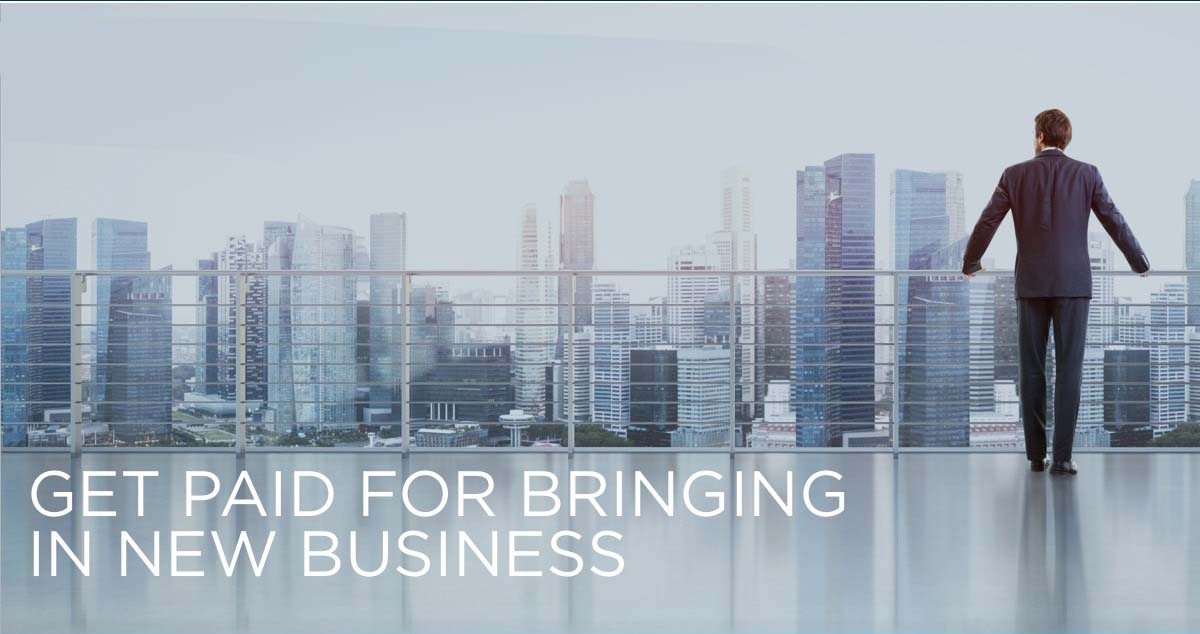
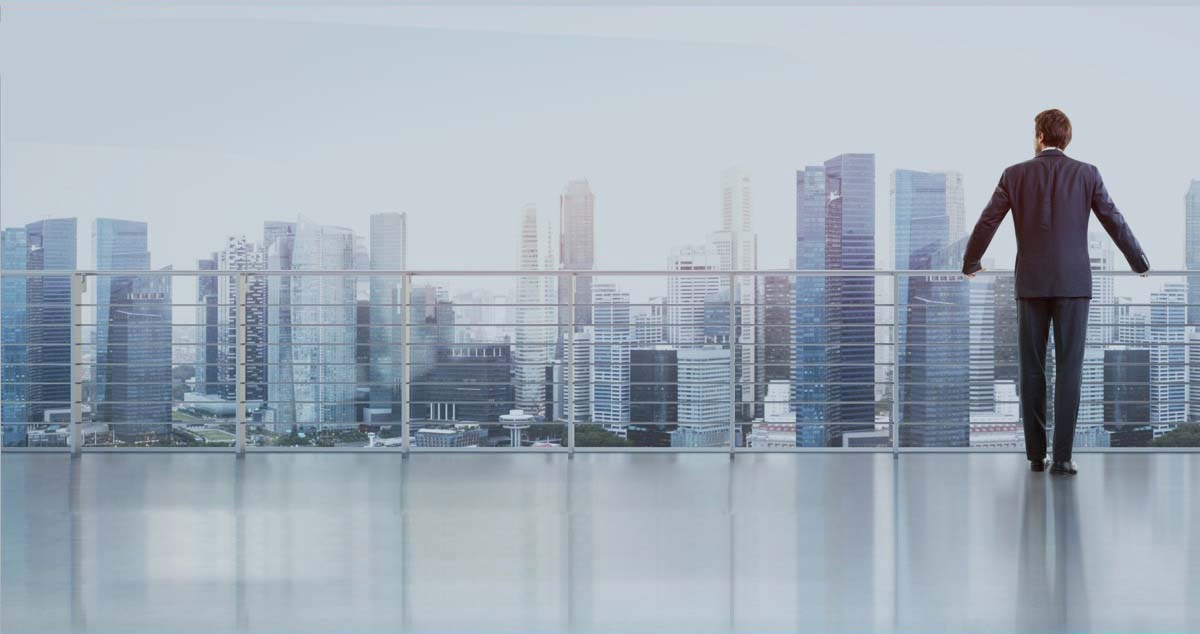
adjust responsive css for overview

Changed region(s): [[0.0, 0.7192, 0.7092, 0.929], [0.0, 0.0, 1.0, 0.03]]

diff --git a/app/styles/rnh-overview.scss b/app/styles/rnh-overview.scss
@@ -9,6 +9,35 @@
   color:#fff;
   text-align:left;
 }
+
+.subTitle {
+  clear: both;
+  position:absolute;
+  bottom:20px;
+  left:calc((100vw - 1280px)/2);
+  max-width:1100px;
+  float:center;
+  margin: 0 auto;
+  padding:0;
+  text-align:left;
+  }
+
+.quote {
+  font-family: "Times New Roman", serif !important;
+  font-size: 2.0rem !important;
+  font-style: italic;
+  font-weight: 800 !important;
+  color:#0099D8 !important;
+  text-align: center;
+  margin:auto;
+  padding:3.0rem 0;
+}
+
+#specifics h2, #specifics img,  #win h2, #win img {
+  padding:18px 0;
+}
+
+
 #rnh-stickyFooter {
   background: none;
   background-color:#bfc9d2;
@@ -72,6 +101,58 @@
 
 }
 
+/*  ////////////////////  MEDIUM SMALL  //////////////  */
+
+@media only screen and (max-width: 1299px) {
+
+.subTitle {
+  left:calc((100vw - 1120px)/2);
+  max-width:929px;
+  }
+
+}
+
+/*  ////////////////////  MEDIUM SMALL  //////////////  */
+
+@media only screen and (max-width: 1200px) {
+
+.subTitle {
+  left:calc((100vw - 929px)/2);
+  max-width:929px;
+  }
+
+}
+
+/*  ////////////////////  MEDIUM SMALL  //////////////  */
+
+@media only screen and (max-width: 1024px) {
+
+#goodword img {
+      padding:16px;
+    }
+
+}
+
+
+/*  ////////////////////  MEDIUM SMALL  //////////////  */
+
+@media only screen and (max-width: 991px) {
+
+  #rnh-ovTitle h4 {
+      margin-top:-30px;
+    }
+
+
+.subTitle {
+  left:calc((100vw - 700px)/2);
+  max-width:800px;
+  }
+  #goodword img {
+      padding:16px;
+    }
+
+}
+
 /*  ////////////////////  MEDIA SMALL  //////////////  */
 
 @media only screen and (max-width: 767px) {
@@ -90,11 +171,51 @@
     max-width:12vmin;
 
   }
+  .subTitle {
+    left:calc((100vw - 520px)/2);
+    max-width:530px;
+    }
 
   #rnh-stickyFooter  .rnh-copyright p {
     color:#003057;
     text-align: center;
     font-size:9px;
+  }
+
+}
+
+
+/*  ////////////////////  MEDIUM SMALL  //////////////  */
+
+@media only screen and (max-width: 575px) {
+
+  #rnh-ovTitle {
+    background-size: cover;
+    min-height:10vmin;
+  }
+
+
+#rnh-ovTitle h4 {
+    margin-top:-40px;
+  }
+
+.subTitle {
+
+  clear: both;
+  position:relative;
+  float:none;
+  left:0;
+  margin-left:16px;
+  margin-top:60px;
+  bottom:-50px;
+  padding:0;
+  text-align:left;
+  max-width:480px;
+  }
+  .quote {
+    font-size: 1.2rem !important;
+    font-weight: 600 !important;
+    padding:2.0rem 0;
   }
 
 }
